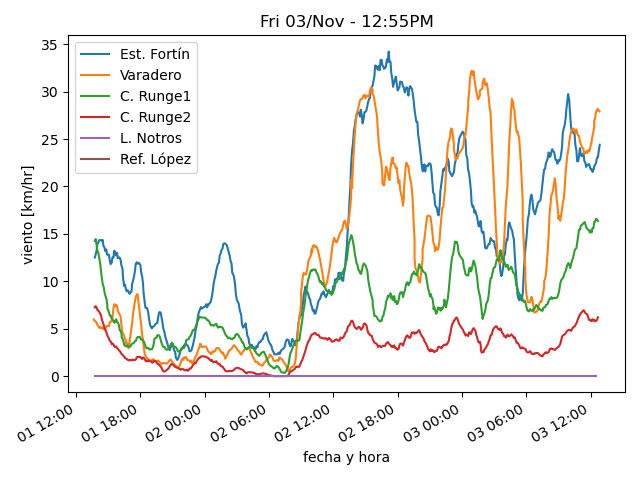
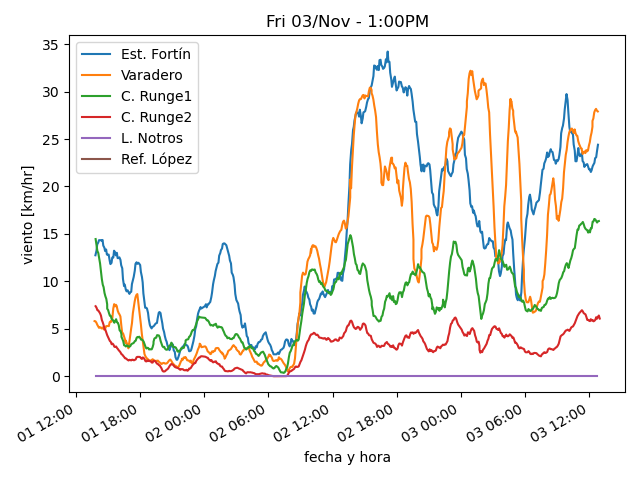
actualiza datos

diff --git a/estaciones/estacion3.html b/estaciones/estacion3.html
@@ -18,32 +18,32 @@
     </tr>
     <tr>
      <td class="stats_data">
-      12:39PM
+      12:54PM
      </td>
     </tr>
     <tr>
      <td class="stats_data">
-      10.7⁰C
+      10.9⁰C
      </td>
     </tr>
     <tr>
      <td class="stats_data">
-      3.1⁰C
+      2.9⁰C
      </td>
     </tr>
     <tr>
      <td class="stats_data">
-      59.3%
+      57.7%
      </td>
     </tr>
     <tr>
      <td class="stats_data">
-      1010.74hPa
+      1010.43hPa
      </td>
     </tr>
     <tr>
      <td class="stats_data">
-      9.1/13.1 km/hr NW
+      10.0/13.9 km/hr NW
      </td>
     </tr>
     <tr>
@@ -53,12 +53,12 @@
     </tr>
     <tr>
      <td class="stats_data">
-      8.0
+      9.0
      </td>
     </tr>
     <tr>
      <td class="stats_data">
-      779.0 W/m²
+      820.3 W/m²
      </td>
     </tr>
    </tbody>

diff --git a/estaciones/estacion4.html b/estaciones/estacion4.html
@@ -18,32 +18,32 @@
     </tr>
     <tr>
      <td class="stats_data">
-      12:39PM
+      12:59PM
      </td>
     </tr>
     <tr>
      <td class="stats_data">
-      12.3⁰C
+      12.9⁰C
      </td>
     </tr>
     <tr>
      <td class="stats_data">
-      2.7⁰C
+      3.4⁰C
      </td>
     </tr>
     <tr>
      <td class="stats_data">
-      52.1%
+      52.4%
      </td>
     </tr>
     <tr>
      <td class="stats_data">
-      1019.64hPa
+      1019.34hPa
      </td>
     </tr>
     <tr>
      <td class="stats_data">
-      4.7/7.6 km/hr SSW
+      2.9/4.6 km/hr SSW
      </td>
     </tr>
     <tr>
@@ -53,12 +53,12 @@
     </tr>
     <tr>
      <td class="stats_data">
-      7.0
+      8.0
      </td>
     </tr>
     <tr>
      <td class="stats_data">
-      804.2 W/m²
+      850.6 W/m²
      </td>
     </tr>
    </tbody>

diff --git a/estaciones/estacion5.html b/estaciones/estacion5.html
@@ -18,27 +18,27 @@
     </tr>
     <tr>
      <td class="stats_data">
-      12:30PM
+      12:45PM
      </td>
     </tr>
     <tr>
      <td class="stats_data">
-      15.2⁰C
+      14.8⁰C
      </td>
     </tr>
     <tr>
      <td class="stats_data">
-      3.9⁰C
+      3.3⁰C
      </td>
     </tr>
     <tr>
      <td class="stats_data">
-      47.0%
+      46.0%
      </td>
     </tr>
     <tr>
      <td class="stats_data">
-      1020.22hPa
+      1020.05hPa
      </td>
     </tr>
     <tr>
